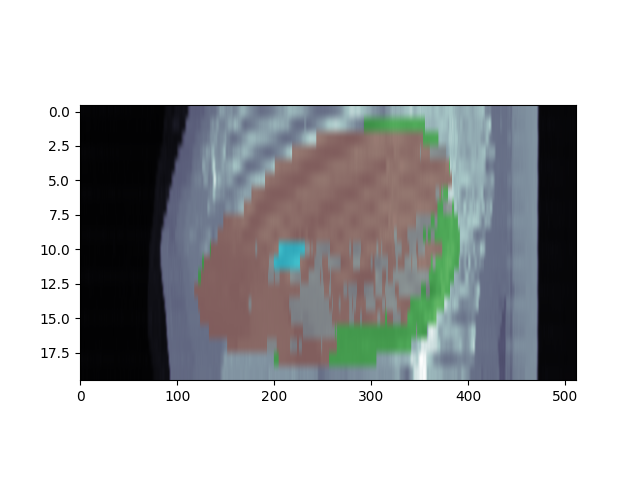
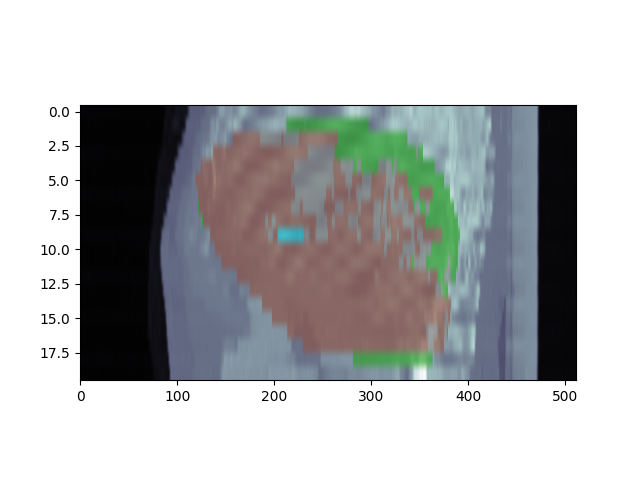
Working on the rotation of segmentation

Changed region(s): [[0.2812, 0.2188, 0.7188, 0.7812]]

diff --git a/activity1.py b/activity1.py
@@ -60,6 +60,22 @@ def main():
         segmentation_pixel_array, segmentation_metadata
     )
 
+    # Rotate each layer of the segmentation 180 degrees on the median plane
+    for key, value in segmentation_layers.items():
+
+        # Rotate the pixel array
+        value["pixel_array"] = rotate(
+            value["pixel_array"], 180, axes=(0, 2), reshape=False
+        )
+    #
+    # axis = 1
+    # plot_interactive_dicom(
+    #     segmentation_layers["liver"]["pixel_array"],
+    #     axis=axis,
+    # )
+    #
+    # exit(0)
+
     # Align number of slices with the reference image
     n_slices_ref = pixel_array.shape[0]
     n_slices_seg = list(segmentation_layers.values())[0]["pixel_array"].shape[0]
@@ -92,7 +108,6 @@ def main():
     n = 16
     projections = []
 
-    # for idx, angle in enumerate(np.linspace(0, 360 * (n - 1) / n, num=n)):
     for idx, angle in tqdm(
         enumerate(np.linspace(0, 360 * (n - 1) / n, num=n)),
         total=n,
@@ -130,9 +145,10 @@ def main():
         # Alpha fuse the image and the segmentation
         final_projection = alpha * projection + (1 - alpha) * projection_segmentation
 
-        final_projection[normalized_projection_segmentation == 0] = projection[
-            normalized_projection_segmentation == 0
-        ]
+        indices = np.isclose(
+            normalized_projection_segmentation, 0, atol=1e-5, rtol=1e-5
+        )
+        final_projection[indices] = projection[indices]
 
         plt.imshow(
             final_projection,
